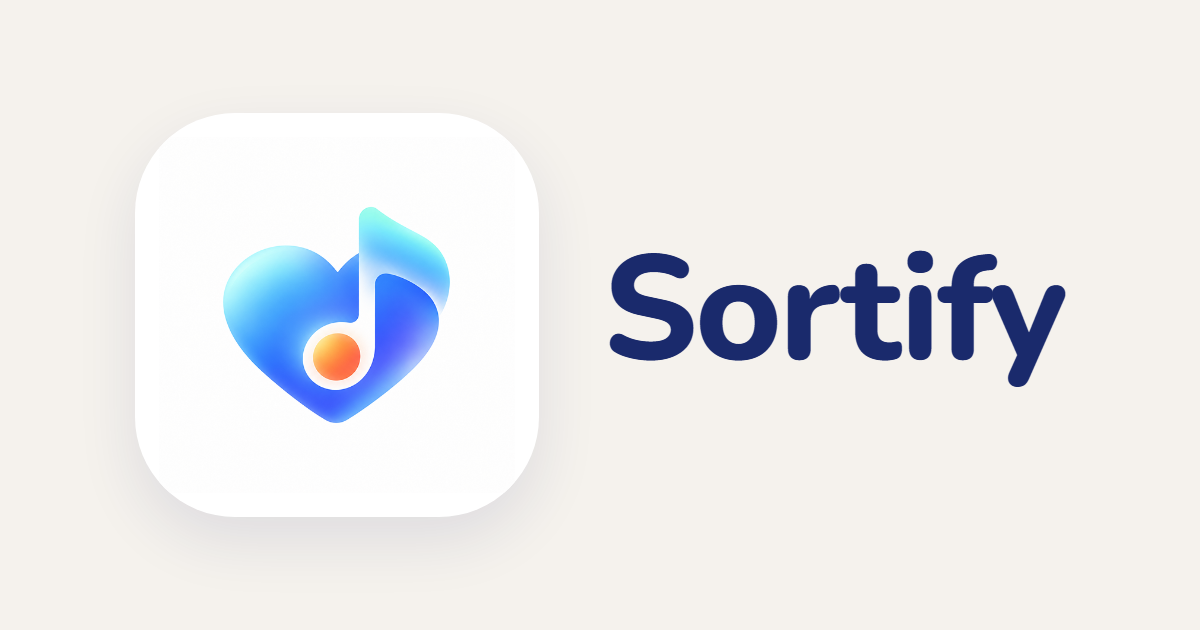
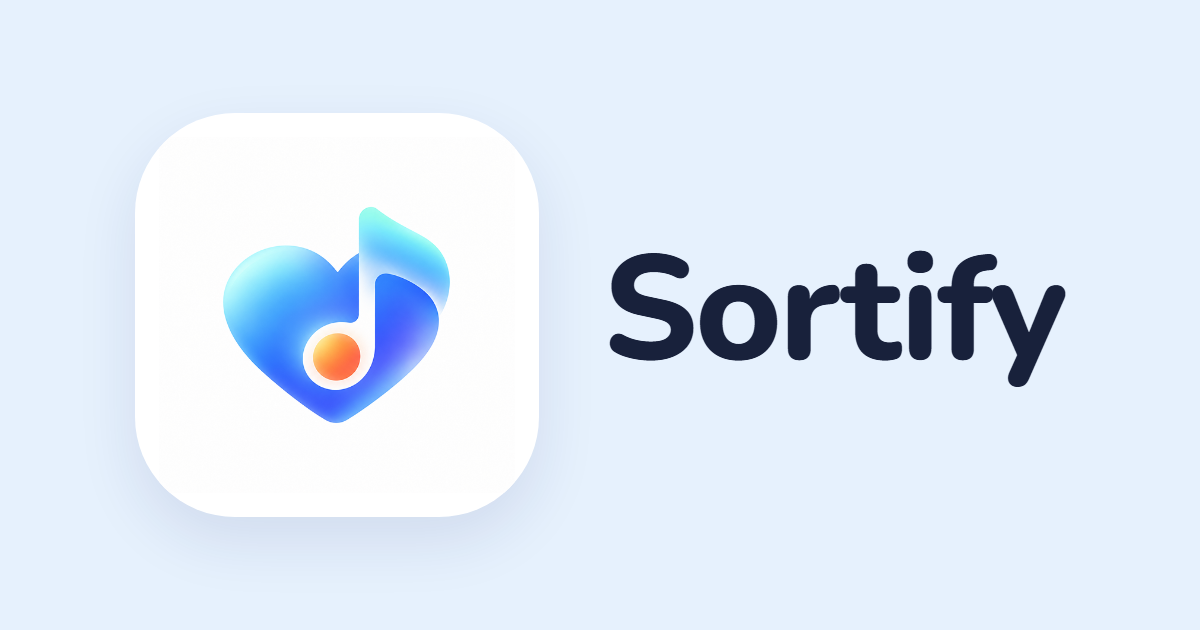
design(sweep): 세부 뎁스까지 남은 legacy 색 47곳을 토큰·newtone 으로 · OG 미리보기 새 톤
- 그림자 변수 --t-ink-rgb / --t-point-rgb 를 두고 rgba(26,42,108,…)·rgba(230,126,34,…) 전부 교체.
  legacy 는 같은 숫자로 풀려 픽셀 동일.
- 로그인 팝업(구글·카카오)·콜백·로그인 모달 오류 상태·아티스트 고르기(삭제 배지·FAB·준비 팝업)·
  곡 고르기(선택 면·진행 바)·결과 순위 길·대체 이미지 팔레트·프로필 사진 버튼·genres(도달 불가, 토큰화만).
- 브랜드 색(구글·카카오·X·인스타)은 유지 — color.md 7-2 에 예외 목록.
- OG 두 장: 바탕 #E6F1FD·글자 #18213B, 로고 B·Nunito 800 그대로.
- 검증: legacy 홈 픽셀 0, 내보내기 기준선 7/7, 두 테마 computed 값.

Changed region(s): [[0.4933, 0.3921, 0.8942, 0.6333]]

diff --git a/src/app/explore/page.tsx b/src/app/explore/page.tsx
@@ -798,7 +798,7 @@ export default function ExplorePage() {
         onClick={() => handleArtistClick(artist)}
         className={`flex items-center justify-between p-3.5 rounded-2xl cursor-pointer select-none transition-all duration-300 ${
           isSelected 
-            ? "bg-point/10 border-2 border-point shadow-[0_4px_12px_rgba(230,126,34,0.15)]" 
+            ? "bg-point/10 border-2 border-point shadow-[0_4px_12px_rgba(var(--t-point-rgb),0.15)]" 
             : isSimilar
               ? "bg-point/5 border-2 border-point border-dashed opacity-90 scale-[0.98]"
               : "bg-white/50 hover:bg-white border-2 border-navy/5 hover:border-navy/10"
@@ -859,7 +859,7 @@ export default function ExplorePage() {
       >
         <motion.div 
           layout="position"
-          className={`relative w-24 h-24 sm:w-28 sm:h-28 rounded-full overflow-hidden border-2 transition-all duration-300 ${isSimilar && !isSelected ? 'border-point border-dashed bg-point/5 scale-90' : isSimilar && isSelected ? 'border-point border-solid bg-point/10 scale-90 shadow-[0_0_15px_rgba(230,126,34,0.4)]' : isSelected ? 'border-point shadow-[0_0_15px_rgba(230,126,34,0.3)]' : 'border-navy/20 group-hover:border-navy/60 group-hover:shadow-md'}`}
+          className={`relative w-24 h-24 sm:w-28 sm:h-28 rounded-full overflow-hidden border-2 transition-all duration-300 ${isSimilar && !isSelected ? 'border-point border-dashed bg-point/5 scale-90' : isSimilar && isSelected ? 'border-point border-solid bg-point/10 scale-90 shadow-[0_0_15px_rgba(var(--t-point-rgb),0.4)]' : isSelected ? 'border-point shadow-[0_0_15px_rgba(var(--t-point-rgb),0.3)]' : 'border-navy/20 group-hover:border-navy/60 group-hover:shadow-md'}`}
         >
           <div className={`relative w-full h-full rounded-full overflow-hidden ${isSelected ? 'p-1 bg-cream/50' : ''}`}>
             <div className="relative w-full h-full rounded-full overflow-hidden">
@@ -1020,7 +1020,7 @@ export default function ExplorePage() {
             animate={{ y: 0, opacity: 1 }}
             exit={{ y: 100, opacity: 0 }}
             transition={{ type: "spring", stiffness: 320, damping: 28 }}
-            className="fixed bottom-0 left-0 right-0 z-40 w-full bg-cream/98 border-t-[2.5px] border-navy/15 pt-4 pb-7 px-6 shadow-[0_-10px_35px_rgba(26,42,108,0.12)] backdrop-blur-md flex flex-col gap-4"
+            className="fixed bottom-0 left-0 right-0 z-40 w-full bg-cream/98 border-t-[2.5px] border-navy/15 pt-4 pb-7 px-6 shadow-[0_-10px_35px_rgba(var(--t-ink-rgb),0.12)] backdrop-blur-md flex flex-col gap-4"
           >
             {/* 1. Selection Horizontal Bar */}
             <div className="flex flex-col gap-1.5 w-full max-w-[380px] mx-auto">
@@ -1057,7 +1057,7 @@ export default function ExplorePage() {
                             e.stopPropagation();
                             handleArtistClick(artist);
                           }}
-                          className="absolute inset-0 bg-red-500/80 flex items-center justify-center rounded-full opacity-0 group-hover:opacity-100 transition-opacity duration-200 cursor-pointer"
+                          className="absolute inset-0 bg-red-500/80 newtone:bg-danger/80 flex items-center justify-center rounded-full opacity-0 group-hover:opacity-100 transition-opacity duration-200 cursor-pointer"
                         >
                           <X size={14} className="text-white font-bold" strokeWidth={3} />
                         </button>
@@ -1074,7 +1074,7 @@ export default function ExplorePage() {
                           e.stopPropagation();
                           handleArtistClick(artist);
                         }}
-                        className="absolute -top-1 -right-1 w-4 h-4 bg-red-500 rounded-full border border-cream flex items-center justify-center shadow-sm cursor-pointer md:hidden"
+                        className="absolute -top-1 -right-1 w-4 h-4 bg-red-500 newtone:bg-danger rounded-full border border-cream flex items-center justify-center shadow-sm cursor-pointer md:hidden"
                       >
                         <X size={8} className="text-white font-bold" strokeWidth={3} />
                       </button>
@@ -1164,7 +1164,7 @@ export default function ExplorePage() {
             exit={{ opacity: 0, scale: 0.7, y: 20 }}
             transition={{ type: "spring", stiffness: 400, damping: 28 }}
             onClick={() => window.scrollTo({ top: 0, behavior: "smooth" })}
-            className={`fixed right-5 z-50 w-12 h-12 rounded-full bg-navy shadow-[0_6px_24px_rgba(26,42,108,0.28)] flex items-center justify-center hover:bg-navy/90 active:scale-95 transition-all cursor-pointer ${selectedIds.size > 0 && !isSingleArtistMode ? "bottom-56" : "bottom-6"}`}
+            className={`fixed right-5 z-50 w-12 h-12 rounded-full bg-navy newtone:bg-brand shadow-[0_6px_24px_rgba(var(--t-ink-rgb),0.28)] flex items-center justify-center hover:bg-navy/90 newtone:hover:bg-brand/90 active:scale-95 transition-all cursor-pointer ${selectedIds.size > 0 && !isSingleArtistMode ? "bottom-56" : "bottom-6"}`}
             aria-label="맨 위로 이동"
           >
             <ChevronUp size={22} className="text-cream" strokeWidth={2.5} />
@@ -1264,10 +1264,10 @@ export default function ExplorePage() {
                 initial={{ opacity: 0, scale: 0.95, y: 10 }}
                 animate={{ opacity: 1, scale: 1, y: 0 }}
                 exit={{ opacity: 0, scale: 0.95, y: 10 }}
-                className="w-full max-w-sm bg-[#F5F2ED] border-2 border-navy p-6 rounded-2xl shadow-xl flex flex-col items-center text-center pointer-events-auto"
+                className="w-full max-w-sm bg-cream border-2 border-navy newtone:border newtone:border-navy/10 p-6 rounded-2xl shadow-xl flex flex-col items-center text-center pointer-events-auto"
               >
-                <div className="w-12 h-12 rounded-full bg-[#E67E22]/10 flex items-center justify-center mb-4">
-                  <Disc className="w-6 h-6 text-[#E67E22] animate-spin" />
+                <div className="w-12 h-12 rounded-full bg-point/10 flex items-center justify-center mb-4">
+                  <Disc className="w-6 h-6 text-point newtone:text-point-ink animate-spin" />
                 </div>
                 
                 <h3 className="text-base font-bold text-navy mb-2">

diff --git a/src/components/LoginModal.tsx b/src/components/LoginModal.tsx
@@ -375,7 +375,7 @@ export default function LoginModal({ isOpen, onClose, onSuccess, locale: propLoc
                 <X size={20} strokeWidth={2.5} />
               </button>
               
-              <div className="w-12 h-12 rounded-full border-[3px] border-navy flex items-center justify-center mb-4 mt-2 shadow-[4px_4px_0_rgba(26,42,108,0.1)]">
+              <div className="w-12 h-12 rounded-full border-[3px] border-navy flex items-center justify-center mb-4 mt-2 shadow-[4px_4px_0_rgba(var(--t-ink-rgb),0.1)]">
                 <div className="w-4 h-4 bg-point rounded-full border-2 border-navy" />
               </div>
               
@@ -423,11 +423,11 @@ export default function LoginModal({ isOpen, onClose, onSuccess, locale: propLoc
                     <button 
                       type="submit"
                       disabled={!loginId || !loginPw || isLoading}
-                      className="w-full py-3.5 mt-2 bg-brand text-cream font-bold text-lg rounded-xl hover:bg-brand/90 transition-colors shadow-[0_4px_15px_rgba(26,42,108,0.2)] disabled:opacity-50 disabled:cursor-not-allowed"
+                      className="w-full py-3.5 mt-2 bg-brand text-cream font-bold text-lg rounded-xl hover:bg-brand/90 transition-colors shadow-[0_4px_15px_rgba(var(--t-ink-rgb),0.2)] disabled:opacity-50 disabled:cursor-not-allowed"
                     >
                       {isLoading ? t.loggingIn : t.login}
                     </button>
-                    {loginError && <div className="text-center text-sm font-bold text-red-500 mt-1">{loginError}</div>}
+                    {loginError && <div className="text-center text-sm font-bold text-red-500 newtone:text-danger mt-1">{loginError}</div>}
                   </form>
 
                   <div className="flex items-center gap-3 my-2">
@@ -604,10 +604,10 @@ export default function LoginModal({ isOpen, onClose, onSuccess, locale: propLoc
                           onChange={handleSignupPwChange}
                           required
                           maxLength={14}
-                          className={`w-full py-3 pl-11 pr-4 bg-white/50 border-2 rounded-xl focus:outline-none font-sans text-sm text-navy placeholder:text-navy/30 transition-colors ${pwError ? 'border-red-400 focus:border-red-500' : 'border-navy/20 focus:border-point'}`}
+                          className={`w-full py-3 pl-11 pr-4 bg-white/50 border-2 rounded-xl focus:outline-none font-sans text-sm text-navy placeholder:text-navy/30 transition-colors ${pwError ? 'border-red-400 focus:border-red-500 newtone:border-danger newtone:focus:border-danger' : 'border-navy/20 focus:border-point newtone:focus:border-brand'}`}
                         />
                       </div>
-                      {pwError && <span className="text-[10px] text-red-500 font-bold ml-1">{pwError}</span>}
+                      {pwError && <span className="text-[10px] text-red-500 newtone:text-danger font-bold ml-1">{pwError}</span>}
                     </div>
 
                     {/* Name */}
@@ -666,11 +666,11 @@ export default function LoginModal({ isOpen, onClose, onSuccess, locale: propLoc
                     <button 
                       type="submit"
                       disabled={!signupId || !signupPw || !signupName || !signupNickname || !!pwError || isLoading}
-                      className="w-full py-3.5 mt-4 bg-brand text-cream font-bold text-lg rounded-xl hover:bg-brand/90 transition-colors shadow-[0_4px_15px_rgba(26,42,108,0.2)] disabled:opacity-50 disabled:cursor-not-allowed"
+                      className="w-full py-3.5 mt-4 bg-brand text-cream font-bold text-lg rounded-xl hover:bg-brand/90 transition-colors shadow-[0_4px_15px_rgba(var(--t-ink-rgb),0.2)] disabled:opacity-50 disabled:cursor-not-allowed"
                     >
                       {isLoading ? t.signingUp : t.signupBtn}
                     </button>
-                    {signupError && <div className="text-center text-sm font-bold text-red-500 mt-1">{signupError}</div>}
+                    {signupError && <div className="text-center text-sm font-bold text-red-500 newtone:text-danger mt-1">{signupError}</div>}
                   </form>
 
                   <div className="mt-2 flex justify-center text-sm font-sans pt-2 border-t border-navy/10">

diff --git a/src/components/SnakePathTimeline.tsx b/src/components/SnakePathTimeline.tsx
@@ -63,7 +63,7 @@ const HOLE_MASK = `radial-gradient(circle closest-side, transparent ${HOLE}%, bl
 const getNodeDimensions = (S: number, isWinner: boolean) => {
   if (isWinner) {
     return {
-      albumClass: "w-20 h-20 border-point shadow-[0_0_20px_rgba(230,126,34,0.5)] animate-pulse-ring",
+      albumClass: "w-20 h-20 border-point shadow-[0_0_20px_rgba(var(--t-point-rgb),0.5)] animate-pulse-ring",
       badgeClass: "min-w-7 h-7 px-1.5 text-[14px] -top-1.5 -left-1.5 bg-point text-white",
       titleClass: "text-[11px] sm:text-[12px] font-extrabold text-navy tracking-tight",
       artistClass: "text-[8px] sm:text-[9px] text-navy/60 font-semibold",
@@ -268,9 +268,9 @@ export default function SnakePathTimeline({ tracks, drawDuration = 5, onLayoutCo
     <div className="relative w-full" style={{ height: `${viewBoxHeight}px` }}>
       <style dangerouslySetInnerHTML={{ __html: `
         @keyframes pulseRing {
-          0% { box-shadow: 0 0 0 0 rgba(230, 126, 34, 0.7); }
-          70% { box-shadow: 0 0 0 15px rgba(230, 126, 34, 0); }
-          100% { box-shadow: 0 0 0 0 rgba(230, 126, 34, 0); }
+          0% { box-shadow: 0 0 0 0 rgba(var(--t-point-rgb), 0.7); }
+          70% { box-shadow: 0 0 0 15px rgba(var(--t-point-rgb), 0); }
+          100% { box-shadow: 0 0 0 0 rgba(var(--t-point-rgb), 0); }
         }
         @keyframes winnerBounce {
           0%, 100% { transform: scale(1.15) translateY(0); }
@@ -286,11 +286,11 @@ export default function SnakePathTimeline({ tracks, drawDuration = 5, onLayoutCo
         preserveAspectRatio="none"
         overflow="visible" 
       >
-        <path d={pathData} fill="none" stroke="rgba(26,42,108,0.05)" strokeWidth="1" strokeLinecap="round" strokeLinejoin="round" />
+        <path d={pathData} fill="none" className="stroke-navy/5" strokeWidth="1" strokeLinecap="round" strokeLinejoin="round" />
         <motion.path 
           d={pathData} 
           fill="none" 
-          stroke="#E67E22" 
+          className="stroke-point" 
           strokeWidth="3" 
           strokeLinecap="round" 
           strokeLinejoin="round"
@@ -353,8 +353,8 @@ export default function SnakePathTimeline({ tracks, drawDuration = 5, onLayoutCo
                 >
                   {/* 수정 포인트 1: h-0을 완전히 제거하고, CD 자체 크기를 유지하여 이미지가 사라지는 현상을 원천 방지합니다. */}
                   {/* transform -translate-y-1/2를 통해 CD의 정중앙이 베지어 곡선 라인에 완벽히 교차하도록 정렬합니다. */}
-                  <div className={`relative flex items-center justify-center flex-shrink-0 rounded-full border-2 bg-[#F5F2ED] ${dims.albumClass} transform -translate-y-1/2`}>
-                    <div className={`absolute rounded-full flex items-center justify-center font-num tabular-nums font-bold leading-none z-30 shadow-[0_1px_3px_rgba(26,42,108,0.35)] ${dims.badgeClass}`}>
+                  <div className={`relative flex items-center justify-center flex-shrink-0 rounded-full border-2 bg-cream ${dims.albumClass} transform -translate-y-1/2`}>
+                    <div className={`absolute rounded-full flex items-center justify-center font-num tabular-nums font-bold leading-none z-30 shadow-[0_1px_3px_rgba(var(--t-ink-rgb),0.35)] ${dims.badgeClass}`}>
                       {pt.rank}
                     </div>
                     
@@ -375,7 +375,7 @@ export default function SnakePathTimeline({ tracks, drawDuration = 5, onLayoutCo
                       />
                     </div>
                     
-                    <div className="absolute inset-0 m-auto border border-[#E67E22]/30 bg-transparent rounded-full pointer-events-none z-20" style={{ width: `${HOLE}%`, height: `${HOLE}%` }} />
+                    <div className="absolute inset-0 m-auto border border-point/30 bg-transparent rounded-full pointer-events-none z-20" style={{ width: `${HOLE}%`, height: `${HOLE}%` }} />
                   </div>
                   
                   {/* 수정 포인트 3: CD가 공중으로 반만큼 뜬 공간(translate)을 메우기 위해, 명시적인 음수 마진(Negative Margin)을 주어 타이틀을 바짝 붙입니다. */}

diff --git a/src/app/genres/page.tsx b/src/app/genres/page.tsx
@@ -167,7 +167,7 @@ export default function GenresPage() {
                   rotate: isSelected ? 18 : 0,
                 }}
                 transition={{ type: "spring", stiffness: 300, damping: 20 }}
-                className="absolute top-0 right-3 w-16 h-16 sm:w-20 sm:h-20 rounded-full bg-[#1c1c1c] border-2 border-navy/30 shadow-md flex items-center justify-center z-0 pointer-events-none"
+                className="absolute top-0 right-3 w-16 h-16 sm:w-20 sm:h-20 rounded-full bg-[#1c1c1c] newtone:bg-[#222B47] border-2 border-navy/30 shadow-md flex items-center justify-center z-0 pointer-events-none"
               >
                 {/* Vinyl Grooves */}
                 <div className="absolute inset-1.5 rounded-full border border-white/10" />
@@ -178,13 +178,13 @@ export default function GenresPage() {
                   className="w-6 h-6 sm:w-8 sm:h-8 rounded-full border border-white/30 flex items-center justify-center shadow-inner"
                   style={{ backgroundColor: genre.color }}
                 >
-                  <div className="w-2 h-2 rounded-full bg-[#FAF7F2] border border-black/20" />
+                  <div className="w-2 h-2 rounded-full bg-[#FAF7F2] newtone:bg-cream border border-black/20" />
                 </div>
               </motion.div>
 
               {/* The Record Sleeve Box */}
               <div 
-                className={`relative z-10 bg-[#FAF7F2] rounded-2xl p-3.5 sm:p-4 border-[3px] transition-all duration-300 h-[110px] flex flex-col justify-between ${
+                className={`relative z-10 bg-[#FAF7F2] newtone:bg-white rounded-2xl p-3.5 sm:p-4 border-[3px] transition-all duration-300 h-[110px] flex flex-col justify-between ${
                   isSelected 
                     ? "border-point shadow-sm" 
                     : "border-navy hover:border-navy/70 shadow-sm"
@@ -221,7 +221,7 @@ export default function GenresPage() {
             animate={{ y: 0, opacity: 1 }}
             exit={{ y: 80, opacity: 0 }}
             transition={{ type: "spring", stiffness: 320, damping: 28 }}
-            className="fixed bottom-0 left-0 right-0 z-40 w-full bg-cream/95 border-t border-navy/15 pt-3.5 pb-7 px-6 shadow-[0_-10px_35px_rgba(26,42,108,0.12)] backdrop-blur-md"
+            className="fixed bottom-0 left-0 right-0 z-40 w-full bg-cream/95 border-t border-navy/15 pt-3.5 pb-7 px-6 shadow-[0_-10px_35px_rgba(var(--t-ink-rgb),0.12)] backdrop-blur-md"
           >
             <div className="w-full max-w-[380px] mx-auto flex flex-col gap-2.5">
               <div className="flex items-center justify-between px-1">

diff --git a/src/app/tracks/page.tsx b/src/app/tracks/page.tsx
@@ -1376,7 +1376,7 @@ export default function TracksPage() {
                     }}
                     className={`flex items-center justify-between p-4 rounded-3xl cursor-pointer transition-all active:scale-[0.98] border ${
                       isSelected 
-                        ? "bg-[#F1EADC] border-point/30 shadow-[0_4px_15px_rgba(26,42,108,0.06)]" 
+                        ? "bg-[#F1EADC] newtone:bg-fill border-point/30 shadow-[0_4px_15px_rgba(var(--t-ink-rgb),0.06)]" 
                         : "bg-white/60 border-navy/5 hover:border-navy/10 shadow-sm"
                     }`}
                   >
@@ -1781,9 +1781,9 @@ export default function TracksPage() {
               onClick={isReadyToStart ? handleStartWorldCup : undefined}
               className={`w-full max-w-[380px] pointer-events-auto transition-colors duration-300 overflow-hidden ${
                 isCurrentlyLoadingTracks
-                  ? "bg-cream/95 backdrop-blur-xl border border-navy/15 shadow-[0_12px_40px_rgba(26,42,108,0.2)] rounded-[2.2rem] p-3.5 flex flex-col gap-3 select-none cursor-not-allowed"
+                  ? "bg-cream/95 backdrop-blur-xl border border-navy/15 shadow-[0_12px_40px_rgba(var(--t-ink-rgb),0.2)] rounded-[2.2rem] p-3.5 flex flex-col gap-3 select-none cursor-not-allowed"
                   : isReadyToStart
-                    ? "bg-brand text-cream border border-navy/20 shadow-[0_10px_30px_rgba(26,42,108,0.35)] rounded-full py-4 px-6 hover:bg-brand/90 active:scale-[0.98] cursor-pointer flex items-center justify-center gap-2"
+                    ? "bg-brand text-cream border border-navy/20 shadow-[0_10px_30px_rgba(var(--t-ink-rgb),0.35)] rounded-full py-4 px-6 hover:bg-brand/90 active:scale-[0.98] cursor-pointer flex items-center justify-center gap-2"
                     : "bg-cream/90 backdrop-blur-md border border-navy/20 shadow-[0_4px_15px_rgba(0,0,0,0.1)] rounded-full py-3 px-6 text-center text-navy font-bold text-sm"
               }`}
             >
@@ -1834,7 +1834,7 @@ export default function TracksPage() {
                     {/* Progress Bar */}
                     <div className="w-full h-1.5 bg-navy/10 rounded-full overflow-hidden relative">
                       <motion.div
-                        className="h-full bg-gradient-to-r from-point to-amber-500 rounded-full"
+                        className="h-full bg-gradient-to-r from-point to-amber-500 newtone:to-point-ink rounded-full"
                         initial={{ width: "10%" }}
                         animate={{
                           width: `${

diff --git a/src/utils/coverPlaceholder.ts b/src/utils/coverPlaceholder.ts
@@ -6,13 +6,26 @@
 //
 // 결과는 data URI 라 네트워크 호출이 없다. next/image 는 data: 로 시작하는 src 를 그대로 내보낸다.
 
-const TONES = [
+// legacy(크림·남색) 팔레트. data URI 라 CSS 변수를 못 받으므로 값을 직접 고른다.
+const TONES_LEGACY = [
   { bg: "#EFEAE1", ink: "#1A2A6C" },
   { bg: "#EAE6DE", ink: "#2D3436" },
   { bg: "#F0E7DA", ink: "#A65309" },
   { bg: "#E8E8E4", ink: "#1A2A6C" },
   { bg: "#F2ECE4", ink: "#5C5441" },
 ];
+// 새 톤(docs/design-system/color.md): 회백·하늘빛 면에 잉크. 호출은 전부 클라이언트 fetch 뒤라 document 를 읽어도 된다.
+const TONES_NEW = [
+  { bg: "#EEF2F7", ink: "#18213B" },
+  { bg: "#F2F4F6", ink: "#333D4B" },
+  { bg: "#F6F1EC", ink: "#C2410C" },
+  { bg: "#EAEEF3", ink: "#18213B" },
+  { bg: "#F3F8FF", ink: "#4B5563" },
+];
+const tones = () => {
+  const t = typeof document !== "undefined" ? document.documentElement.getAttribute("data-theme") : null;
+  return t === "toss-white" || t === "sky-tint" ? TONES_NEW : TONES_LEGACY;
+};
 
 const hash = (s: string) => {
   let h = 0;
@@ -22,7 +35,8 @@ const hash = (s: string) => {
 
 /** 재킷 없음 대체 이미지 (300x300 SVG data URI). 같은 seed 면 언제나 같은 그림이다. */
 export function coverPlaceholder(seed = ""): string {
-  const t = TONES[hash(seed || "sortify") % TONES.length];
+  const palette = tones();
+  const t = palette[hash(seed || "sortify") % palette.length];
   const svg =
     `<svg xmlns="http://www.w3.org/2000/svg" width="300" height="300" viewBox="0 0 300 300">` +
     `<rect width="300" height="300" fill="${t.bg}"/>` +

diff --git a/src/components/TasteTemplates.tsx b/src/components/TasteTemplates.tsx
@@ -296,7 +296,7 @@ export function RecordCard({
             <Cover
               src={top.albumImage}
               size={sleeve}
-              className="absolute left-0 top-0 !rounded-none shadow-[0_10px_24px_-10px_rgba(26,42,108,0.45)] newtone:shadow-[0_10px_24px_-10px_rgba(24,33,59,0.4)]"
+              className="absolute left-0 top-0 !rounded-none shadow-[0_10px_24px_-10px_rgba(var(--t-ink-rgb),0.45)]"
             />
           </div>
           <div className="mb-4 flex flex-col justify-end items-center text-center gap-1" style={{ height: RECORD_INFO_H }}>
@@ -583,7 +583,7 @@ export function ScaledCard({ children, className = "" }: { children: React.React
   return (
     <div ref={ref} className={`w-full ${className}`}>
       <div
-        className="relative overflow-hidden rounded-[6px] shadow-[0_1px_2px_rgba(26,42,108,0.08),0_12px_32px_-12px_rgba(26,42,108,0.28)] newtone:shadow-[0_1px_2px_rgba(24,33,59,0.08),0_12px_32px_-12px_rgba(24,33,59,0.25)] mx-auto"
+        className="relative overflow-hidden rounded-[6px] shadow-[0_1px_2px_rgba(var(--t-ink-rgb),0.08),0_12px_32px_-12px_rgba(var(--t-ink-rgb),0.28)] mx-auto"
         style={{ width: 450 * scale, height: 800 * scale }}
       >
         <div className="absolute left-0 top-0 origin-top-left" style={{ width: 450, height: 800, transform: `scale(${scale})` }}>

diff --git a/src/app/auth/popup-login/page.tsx b/src/app/auth/popup-login/page.tsx
@@ -41,17 +41,16 @@ export default function PopupLogin() {
   const isKakao = provider === "kakao";
 
   return (
-    <div className="flex flex-col items-center justify-center min-h-[50vh] p-8 text-center bg-[#FAF7F2] text-navy">
+    <div className="flex flex-col items-center justify-center min-h-[50vh] p-8 text-center bg-[#FAF7F2] newtone:bg-cream text-navy">
       <div
         className="w-12 h-12 rounded-full flex items-center justify-center mb-6 animate-spin"
         style={{
-          border: isKakao ? "3px solid #FEE500" : "3px solid #1a2a6c",
+          // 카카오는 브랜드 색(예외). 구글 쪽은 서비스 잉크색 — 테마를 따른다
+          border: isKakao ? "3px solid #FEE500" : "3px solid var(--t-navy)",
         }}
       >
-        <div
-          className="w-2 h-2 rounded-full"
-          style={{ background: isKakao ? "#000000" : "#e63946" }}
-        />
+        {/* 구글 쪽 점: legacy 는 전과 같은 빨강, 새 테마는 brand */}
+        <div className={`w-2 h-2 rounded-full ${isKakao ? "bg-[#000000]" : "bg-[#e63946] newtone:bg-brand"}`} />
       </div>
       <h3 className="text-2xl font-bold mb-2">
         {isKakao 

diff --git a/src/components/WorldCupCandidate.tsx b/src/components/WorldCupCandidate.tsx
@@ -119,7 +119,7 @@ export default function WorldCupCandidate({ track, onDrop, onRemove, onActive }:
             rotate: isLP ? -5 : 0
           }}
           transition={{ type: "spring", stiffness: 300, damping: 25 }}
-          className="absolute inset-0 rounded-2xl sm:rounded-[1.5rem] border border-navy/20 bg-cream shadow-[0_6px_20px_rgba(26,42,108,0.15)] newtone:bg-white newtone:border-navy/10 newtone:shadow-[0_8px_24px_-12px_rgba(24,33,59,0.25)] overflow-hidden z-30 pointer-events-none"
+          className="absolute inset-0 rounded-2xl sm:rounded-[1.5rem] border border-navy/20 bg-cream shadow-[0_6px_20px_rgba(var(--t-ink-rgb),0.15)] newtone:bg-white newtone:border-navy/10 newtone:shadow-[0_8px_24px_-12px_rgba(24,33,59,0.25)] overflow-hidden z-30 pointer-events-none"
         >
           <Image src={track.albumImage} alt={track.title} fill sizes="(max-width: 768px) 140px, 160px" className="object-cover" />
           <div className="absolute inset-0 bg-black/0 hover:bg-black/5 transition-colors" />

diff --git a/src/components/SafeImage.tsx b/src/components/SafeImage.tsx
@@ -16,9 +16,9 @@ interface SafeImageProps extends Omit<ImageProps, "src"> {
 const PALETTES = [
   { bg: "bg-navy/5", text: "text-navy/20", border: "border-navy/10" },
   { bg: "bg-point/5", text: "text-point/20", border: "border-point/10" },
-  { bg: "bg-[#EBE2D7]/40", text: "text-navy/25", border: "border-navy/10" },
+  { bg: "bg-[#EBE2D7]/40 newtone:bg-navy/[0.06]", text: "text-navy/25", border: "border-navy/10" },
   { bg: "bg-charcoal/5", text: "text-charcoal/20", border: "border-navy/10" },
-  { bg: "bg-[#E6DEC9]/40", text: "text-[#5C5441]/25", border: "border-navy/10" },
+  { bg: "bg-[#E6DEC9]/40 newtone:bg-navy/[0.05]", text: "text-[#5C5441]/25 newtone:text-navy/25", border: "border-navy/10" },
 ];
 
 export function SafeImage({ src, fallbackSrc, fallbackType = "artist", alt, className = "", ...props }: SafeImageProps) {

diff --git a/src/components/result/ResultScreen.tsx b/src/components/result/ResultScreen.tsx
@@ -868,7 +868,7 @@ export default function ResultScreen({ mode = "fresh" }: { mode?: "fresh" | "sav
                   setShareNameError("");
                   setShowShareModal(true);
                 }}
-                className="flex-1 h-[48px] bg-brand text-cream font-sans font-bold text-sm rounded-2xl flex items-center justify-center gap-2 transition-all active:scale-[0.98] cursor-pointer shadow-md hover:bg-[#111A3E]"
+                className="flex-1 h-[48px] bg-brand text-cream font-sans font-bold text-sm rounded-2xl flex items-center justify-center gap-2 transition-all active:scale-[0.98] cursor-pointer shadow-md hover:bg-[#111A3E] newtone:hover:bg-brand/90"
               >
                 <Share2 size={18} />
                 <span>{t.shareMainBtn}</span>

diff --git a/src/app/globals.css b/src/app/globals.css
@@ -107,6 +107,9 @@
   --t-wordmark: var(--font-playfair);
   --t-wordmark-weight: 700;
   --t-grain: 0.04;
+  /* 그림자·빛의 알파 색. rgba(var(--t-ink-rgb), .2) 꼴로 쓴다 — legacy 값은 전에 하드코딩돼 있던 26,42,108 / 230,126,34 그대로 */
+  --t-ink-rgb: 26, 42, 108;
+  --t-point-rgb: 230, 126, 34;
   --background: #EAE2D6;
   --app-bg: var(--t-cream);
   --foreground: var(--t-charcoal);
@@ -126,6 +129,8 @@
   --t-line: #E5E8EB;
   --t-fill: #F2F4F6;
   --t-grain: 0;
+  --t-ink-rgb: 25, 31, 40;
+  --t-point-rgb: 253, 126, 62;
   --background: #F2F4F6;
 }
 
@@ -143,6 +148,8 @@
   --t-line: #DCE8F7;
   --t-fill: #E6F1FD;
   --t-grain: 0;
+  --t-ink-rgb: 24, 33, 59;
+  --t-point-rgb: 253, 126, 62;
   --background: #E6F1FD;
 }
 
